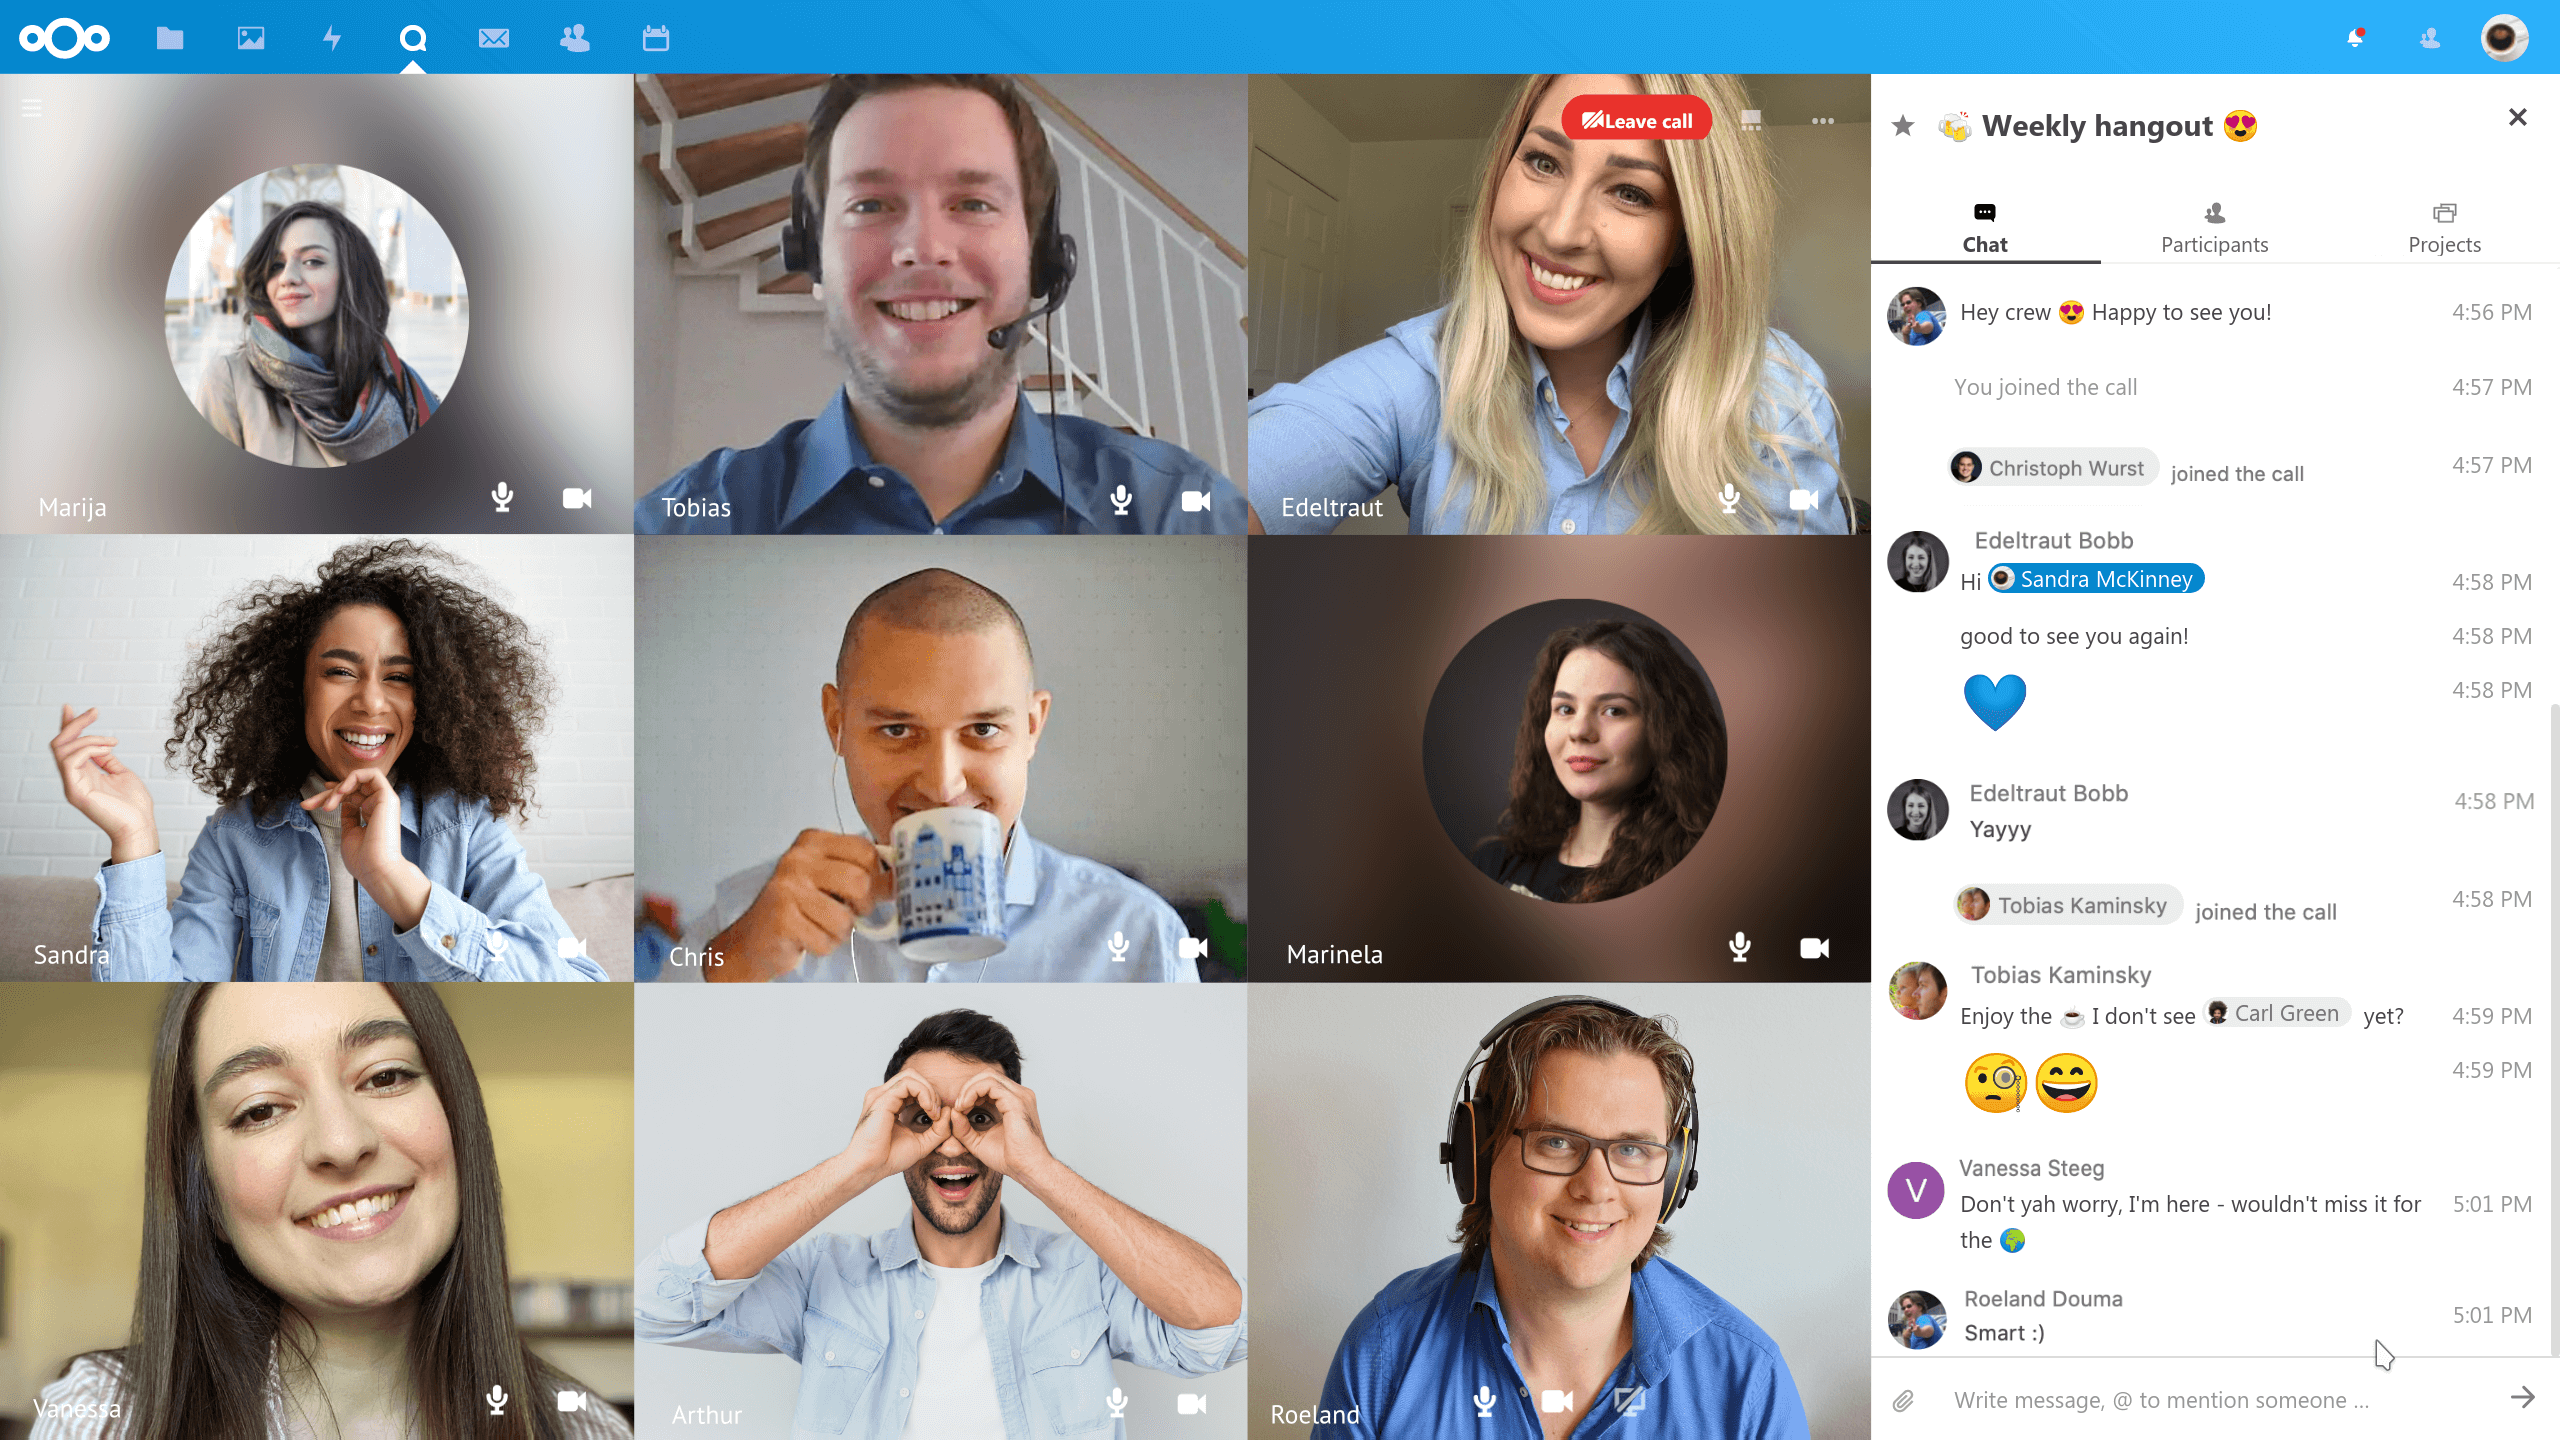
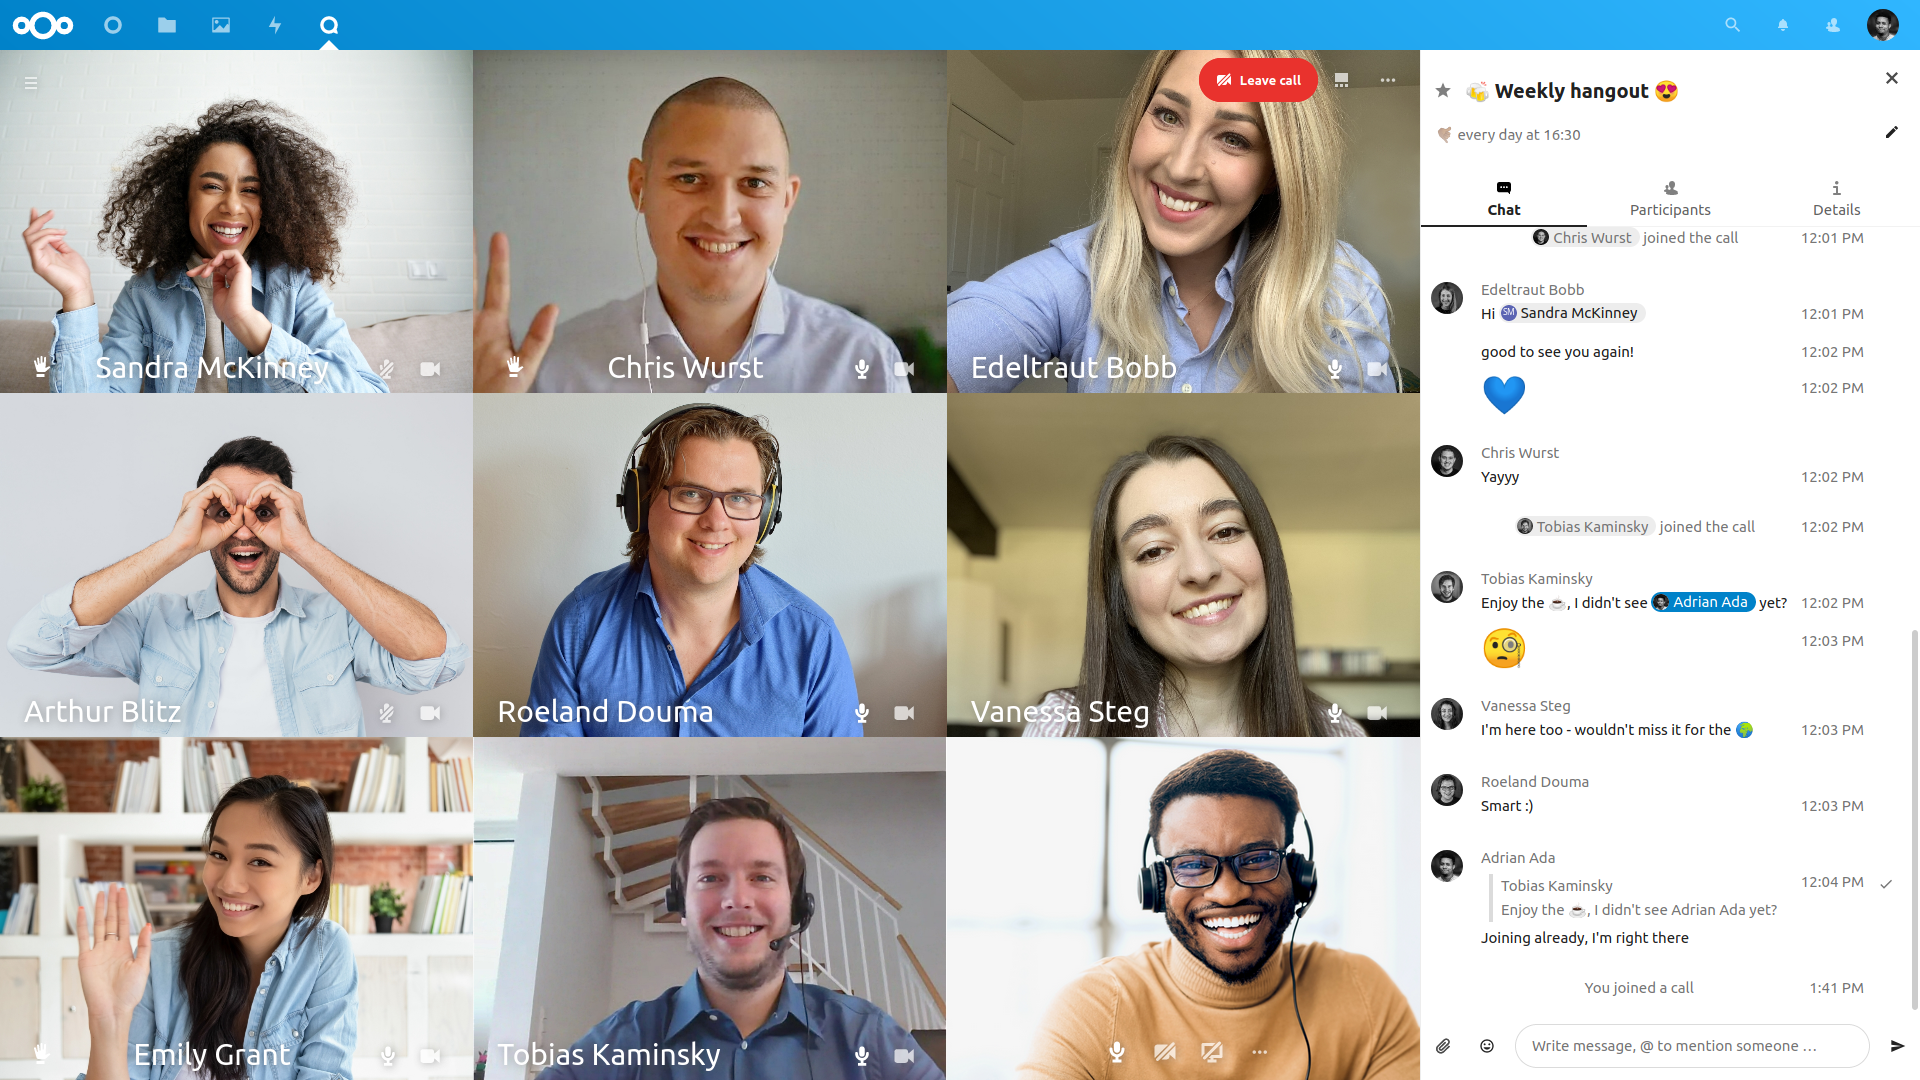
Adjust screenshoting

diff --git a/src/components/CallView/Grid/Grid.vue b/src/components/CallView/Grid/Grid.vue
@@ -545,23 +545,23 @@ export default {
 		placeholderName(i) {
 			switch (i) {
 			case 0:
-				return 'Sandra'
+				return 'Sandra McKinney'
 			case 1:
-				return 'Chris'
+				return 'Chris Wurst'
 			case 2:
-				return 'Edeltraut'
+				return 'Edeltraut Bobb'
 			case 3:
-				return 'Arthur'
+				return 'Arthur Blitz'
 			case 4:
-				return 'Roeland'
+				return 'Roeland Douma'
 			case 5:
-				return 'Vanessa'
+				return 'Vanessa Steg'
 			case 6:
-				return 'Emily'
+				return 'Emily Grant'
 			case 7:
-				return 'Tobias'
+				return 'Tobias Kaminsky'
 			case 8:
-				return 'Vincent'
+				return 'Adrian Ada'
 			}
 		},
 

diff --git a/README.md b/README.md
@@ -2,7 +2,7 @@
 
 **A video & audio conferencing app for Nextcloud**
 
-![](https://raw.githubusercontent.com/nextcloud/spreed/master/docs/call-in-action.png)
+![](https://raw.githubusercontent.com/nextcloud/spreed/master/docs/call-in-action.jpg)
 
 ## Why is this so awesome?
 
